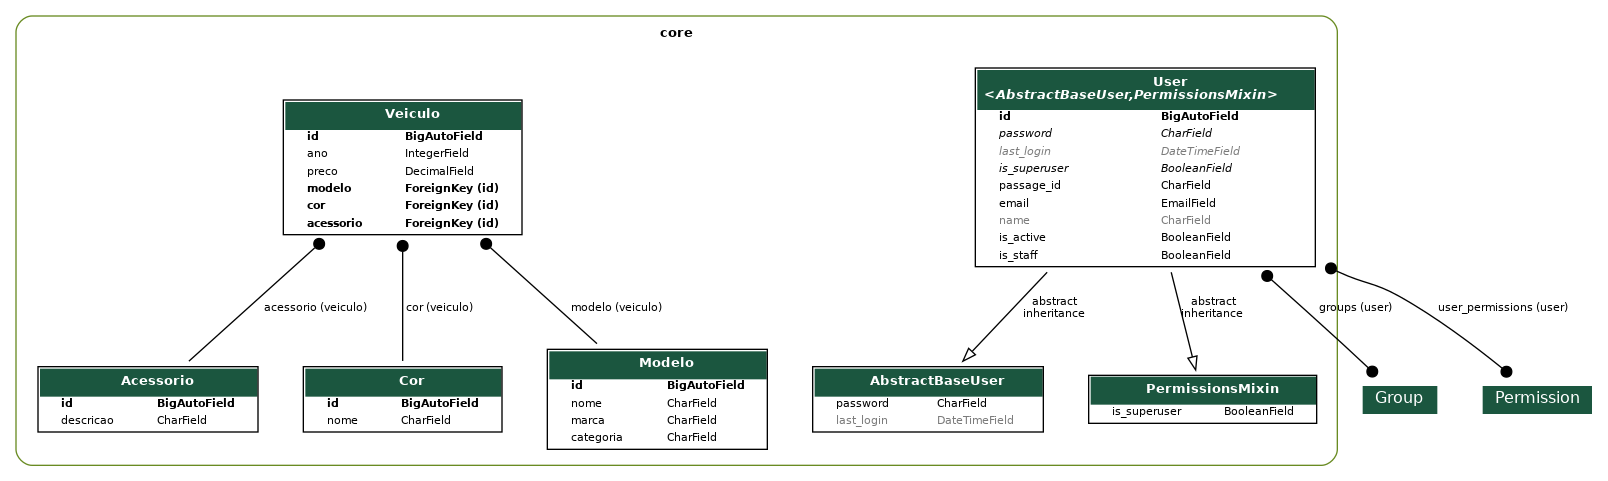
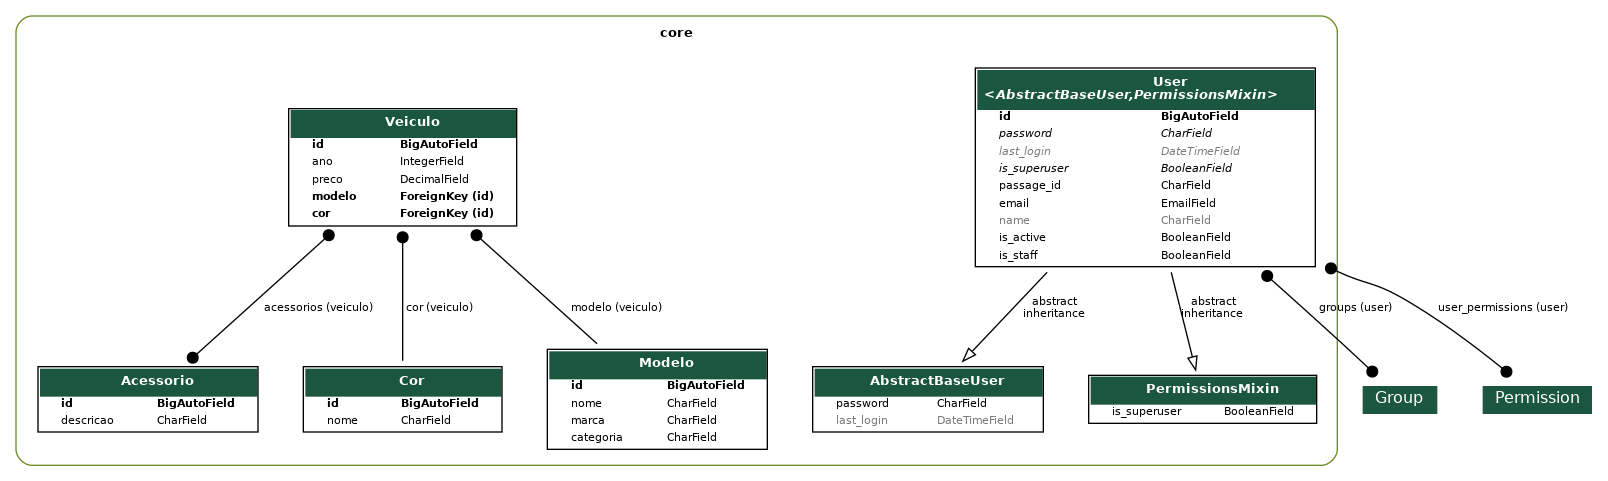
FIX: funcionando agr

Changed region(s): [[0.1555, 0.1871, 0.342, 0.5301], [0.1866, 0.6237, 0.2488, 0.6549], [0.0933, 0.7173, 0.1244, 0.7484]]

diff --git a/core/migrations/0010_alter_veiculo_acessorios.py b/core/migrations/0010_alter_veiculo_acessorios.py
@@ -1,0 +1,18 @@
+# Generated by Django 5.1.7 on 2025-05-19 19:24
+
+from django.db import migrations, models
+
+
+class Migration(migrations.Migration):
+
+    dependencies = [
+        ('core', '0009_remove_veiculo_acessorio_veiculo_acessorios'),
+    ]
+
+    operations = [
+        migrations.AlterField(
+            model_name='veiculo',
+            name='acessorios',
+            field=models.ManyToManyField(blank=True, to='core.acessorio'),
+        ),
+    ]
